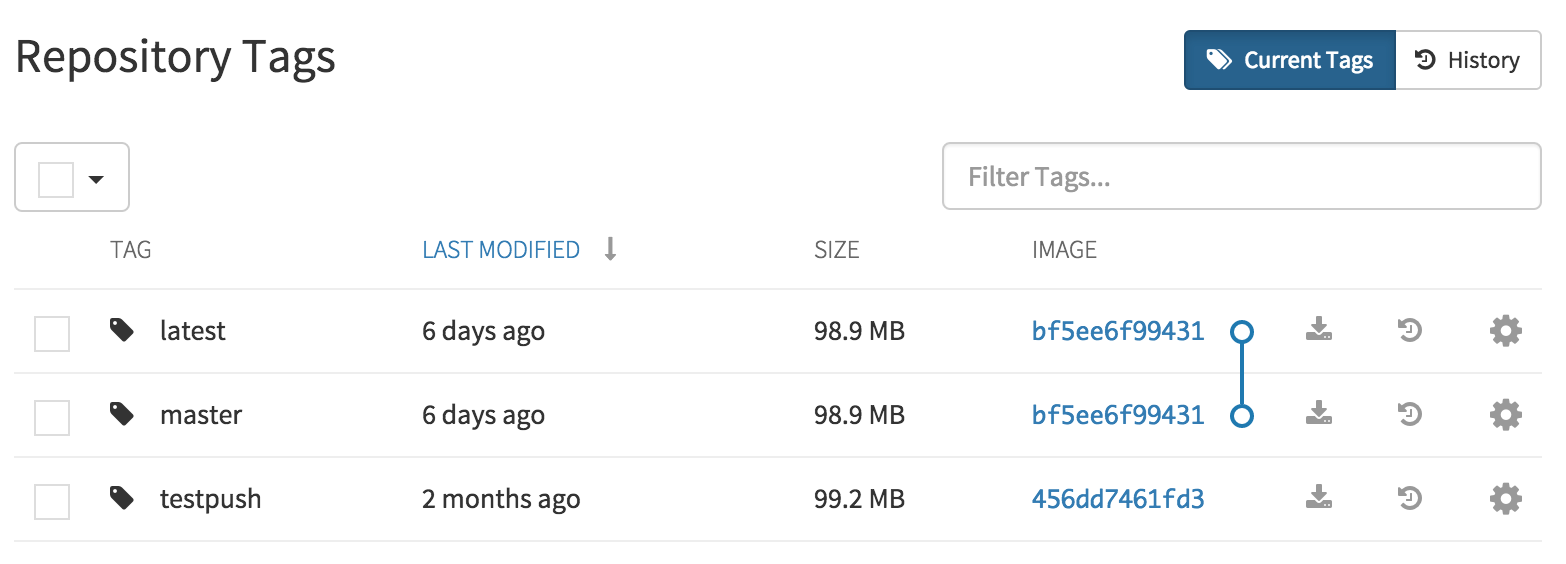
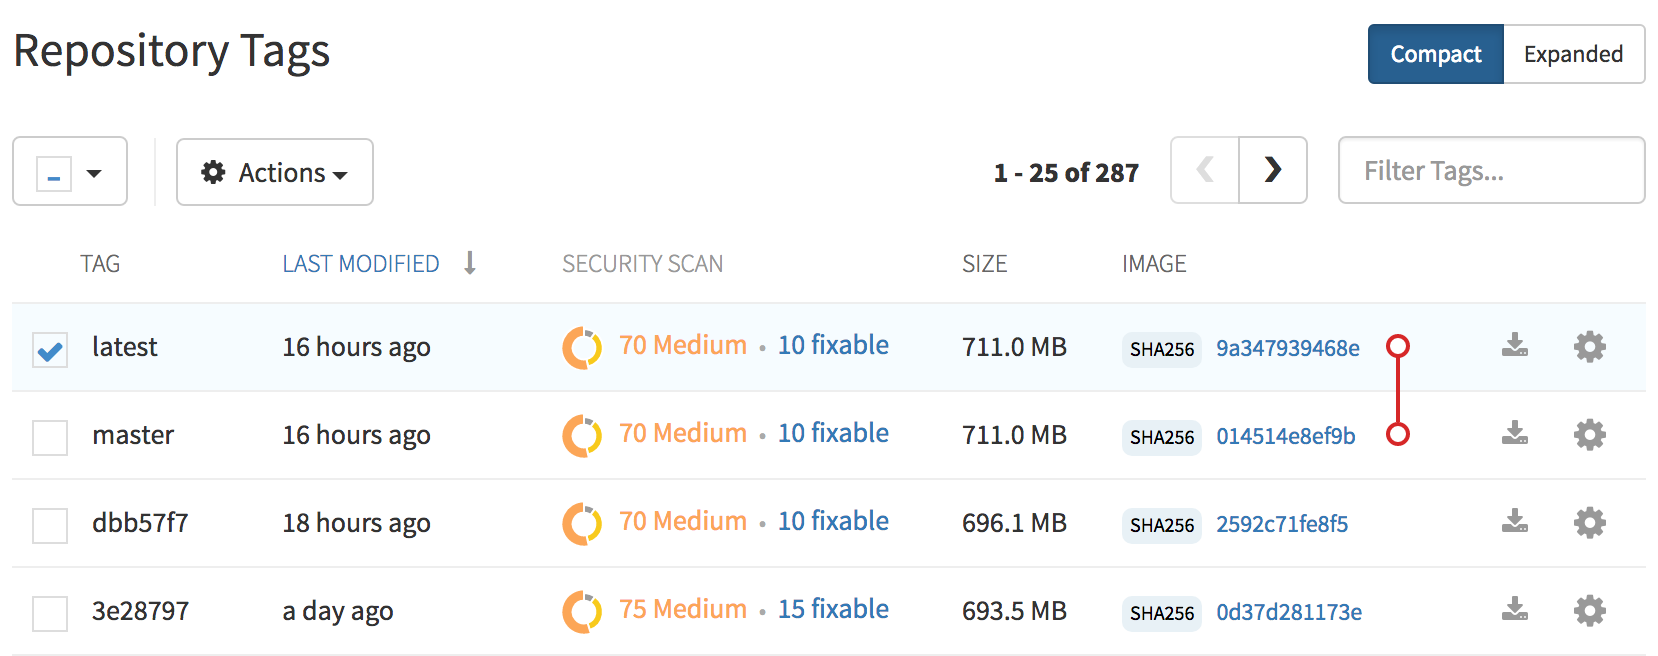
Update several guides and issues docs to contain relevant information

diff --git a/guides/tag-operations.md b/guides/tag-operations.md
@@ -2,22 +2,20 @@
 layout: doc
 sublayout: guide
 title: Working with tags
-reviewed: 2015-05-28T13:52:42-04:00
+reviewed: 2017-04-28T10:27:42-04:00
 ---
 
 ## Viewing and modifying tags
 
 The tags of a repository can be viewed and modified in the tags panel of the repository page, found by clicking on the <span class="tab-reference"><i class="fa fa-tags tab-icon"></i>Tags</span> tab.
 
-![Tags View](tag-operations.png)
+<center>
+    <a href="tag-operations.png"><img src="tag-operations.png" style="width:80%;"></a>
+</center>
 
-### Visualize tags
+### Adding a new tag to a tagged image
 
-To visualize multiple tags in a tree format, check the tags you are interested in viewing and click the "Visualize Tags" button that appears next to the top checkbox.
-
-### Adding a new tag to an tagged image
-
-A new tag can be added to an tagged image by clicking on the <i class="fa fa-gear"></i> icon next to the tag and choosing "Add New Tag". Quay.io will confirm the addition of the new tag to the image.
+A new tag can be added to a tagged image by clicking on the <span class="tab-reference"><i class="fa fa-gear"></i></span> icon next to the tag and choosing <span class="tab-reference"><i class="fa fa-plus"></i> Add New Tag</span>. Quay.io will confirm the addition of the new tag to the image.
 
 ### Moving a tag
 
@@ -25,14 +23,18 @@ Moving a tag to a different image is accomplished by performing the same operati
 
 ### Deleting a tag
 
-A specific tag and all its images can be deleted by clicking on the <i class="fa fa-gear"></i> icon and choosing "Delete Tag". This will delete the tag and any images unique to it. Images will not be deleted until all tags sharing them are deleted.
+A specific tag and all its images can be deleted by clicking on the <span class="tab-reference"><i class="fa fa-gear"></i></span> icon and choosing <span class="tab-reference"><i class="fa fa-times"></i> Delete Tag</span>. This will delete the tag and any images unique to it. Images will not be deleted until no tag references them either directly or indirectly through a parent child relationship.
 
 ### Viewing tag history and going back in time
 
 #### Viewing tag history
 
-To view the image history for a tag, click on the <i class="fa fa-history"></i> icon. The menu shown will display each image to which the tag pointed in the past and when it pointed to that image.
+To view the image history for a tag, click on the <span class="tab-reference"><i class="fa fa-history"></i> View Tags History</span> menu item located under the <span class="tab-reference"><i class="fa fa-cog"></i> Actions</span> menu. The page shown will display each image to which the tag pointed in the past and when it pointed to that image.
 
 #### Going back in time
 
-To revert the tag to a previous image, simply click on the image name.
+To revert the tag to a previous image, find the history line where your desired image was overwritten, and click on the Restore link.
+
+### Security scanning
+
+By clicking the on the vulnerability or fixable count next to a tab you can jump into the security scanning information for that tag. There you can find which CVEs your image is susceptible to, and what remediation options you may have available.

diff --git a/guides/repo-view.md b/guides/repo-view.md
@@ -2,17 +2,17 @@
 layout: doc
 sublayout: guide
 title: Working with repositories in the browser
-reviewed: 2015-05-29T15:19:05-04:00
+reviewed: 2017-04-28T15:10:24-04:00
 ---
 
 The repository view provides access to the full information for a given repository. It is divided
-into a number of tabs, each will provides specific information and tools.
+into a number of tabs, each provides specific information and tools.
 
 ### Repository View Tabs
 
 - <i class="fa fa-info-circle tab-icon"></i> Information: A basic overview of the repository, including its current builds and the repository's description
 - <i class="fa fa-tags tab-icon"></i> [Tags](/guides/tag-operations.html): Allows for viewing a repository's tags and performing operations on it.
+- <i class="fa fa-history tab-icon"></i> History: Shows a chronological history for how the repository tags have been mutated through pushes, pulls, and UI actions, with the ability to revert operations which changed the image to which a tag points
 - <i class="fa fa-tasks tab-icon"></i> [Builds](/guides/building.html): Allows for viewing and starting repository builds, and defining [Build Triggers](/glossary/build-trigger.html).
-- <i class="fa fa-code-fork tab-icon"></i> Visualize: Shows a tree for visualizing the difference between two or more tags.
 - <i class="fa fa-bar-chart tab-icon"></i> Logs: Shows the usage logs for the repository.
 - <i class="fa fa-gear tab-icon"></i> Settings: Shows all the repository settings, including [Repository Permissions](/guides/repo-permissions.html), [Repository Notifications](/guides/notifications.html) and whether the repository is public or private.

diff --git a/issues/base-pull-issue.md b/issues/base-pull-issue.md
@@ -2,24 +2,18 @@
 layout: doc
 sublayout: issue
 title: Base image pull in Dockerfile fails with 403
-reviewed: 2015-06-28T13:45:07-04:00
+reviewed: 2017-04-28T10:14:07-04:00
 frontpage: True
 ---
 Attempting to use a private base image as the `FROM` line in a [Build Trigger](/glossary/build-trigger.html) results in a 403 error.
 
 ### Robot account credentials are required
 
-In order to use a private base image as the `FROM` line in a [Build Trigger](/glossary/build-trigger.html), credentials for a [Robot Account](/glossary/robot-accounts.html) with *read-access to the private image* must be specified when setting up the build trigger.
+In order to use a private base image as the `FROM` line in a [Build Trigger](/glossary/build-trigger.html), credentials for a [Robot Account](/glossary/robot-accounts.html) with *read access to the private image* must be specified when setting up the build trigger.
 
 #### Specifying robot account credentials
 
-A robot account to use to pull the base image can be chosen in the build trigger setup dialog before the trigger is created:
-
-<center>
-    <a href="build-trigger-none.png"><img src="build-trigger-none.png" style="width:50%;"></a>
-</center>
-
-Select the **Robot Account** option for the credentials to use, and then choose a robot account to use:
+A robot account to use to pull the base image can be chosen in the build trigger setup page before the trigger is created:
 
 <center>
     <a href="build-trigger-robot.png"><img src="build-trigger-robot.png" style="width:50%;"></a>

diff --git a/issues/unknown-image.md b/issues/unknown-image.md
@@ -2,10 +2,14 @@
 layout: doc
 sublayout: issue
 title: Unknown image
-reviewed: 2015-05-18T12:10:58-04:00
+reviewed: 2017-04-28T10:07:58-04:00
 ---
-The image with the given ID was not found
+You are attempting a V1 rgistry push or pull, and an image with the given ID was not found.
 
 ### The docker push got out of sync
 
-Please try the push again. If the problem persists, please [contact support](https://quay.io/contact).
+Please try to push the repository again. If the problem persists, please [contact support](https://quay.io/contact).
+
+### You are using an old version of Docker
+
+Older versions of Docker do not have built-in support for the [V2 registry protocol](https://docs.docker.com/registry/spec/api/). Please upgrade docker to the latest version.

diff --git a/issues/login-failure.md b/issues/login-failure.md
@@ -2,13 +2,13 @@
 layout: doc
 sublayout: issue
 title: Could not login as a user
-reviewed: 2015-05-15T16:32:20-04:00
+reviewed: 2017-04-28T10:08:20-04:00
 ---
 Authentication failed
 
 ### You do not have the correct password for the user
 
-To change your password, visit the [change password tab](https://quay.io/user/?tab=password) under the user admin page.
+To change your password, visit the accounts settings page, click on the user settings tab, and click on `Change password`.
 
 ### The user does not exist
 

diff --git a/_includes/login.md b/_includes/login.md
@@ -1,11 +1,9 @@
 To sign into Quay.io, execute the `docker login quay.io` command:
 
-Note: If you go to your account settings you can create an encrypted password for more security.
+Note: If you go to your Quay account settings you can create an encrypted password for more security.
 
 ```
 $ docker login quay.io
-Login against server at https://quay.io/v1/
 Username: myusername
 Password: mypassword
-Email: myemail@example.com
 ```

diff --git a/issues/checksum-mismatch.md b/issues/checksum-mismatch.md
@@ -2,9 +2,9 @@
 layout: doc
 sublayout: issue
 title: Checksum mismatch
-reviewed: 2015-05-18T12:10:58-04:00
+reviewed: 2017-04-28T10:26:58-04:00
 ---
-The checksum for the current image did not match
+The checksum provided by the client for the current image did not match the checksum calculated by the server
 
 ### The docker push got out of sync
 
